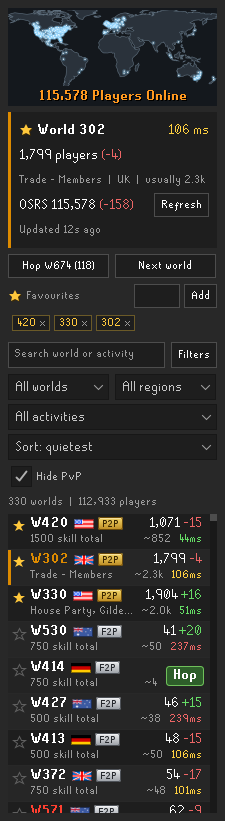
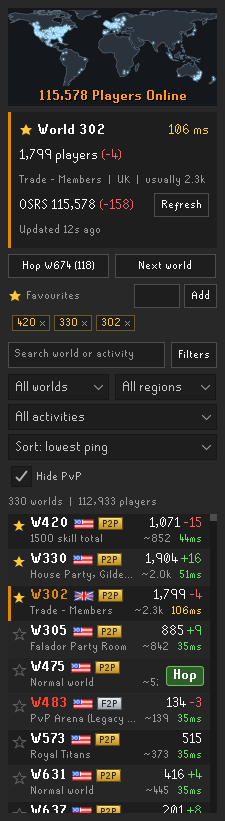
Ship your settings as the defaults; remember sidebar filters; overview image
- New installs start with: Medium size, 60% background, Find lowest ping,
  Theme favourites, Order quiet + low ping, Members/F2P split on, Regions
  world map, ping every 30s, overlay bottom-left; sidebar sorted by lowest
  ping with filters open and Hide PvP on.
- Sidebar sort, membership, region, theme, Hide PvP and filters-open are
  remembered between sessions.
- README opens with an overview image (overlay + sidebar).

diff --git a/src/main/java/com/playercount/PlayerCountConfig.java b/src/main/java/com/playercount/PlayerCountConfig.java
@@ -59,13 +59,13 @@ public interface PlayerCountConfig extends Config
 	@Units(Units.PERCENT)
 	default int frameOpacity()
 	{
-		return 90;
+		return 60;
 	}
 
 	@ConfigItem(keyName = SIZE_KEY, name = "Size", description = "Full, Medium (the game's small font) or Small (short labels on one line). Each is drawn at native size so text stays sharp. Alt-dragging the overlay's corner also switches size.", section = lookSection, position = 2)
 	default OverlaySize overlaySize()
 	{
-		return OverlaySize.FULL;
+		return OverlaySize.MEDIUM;
 	}
 
 	@ConfigItem(keyName = "layout", name = "Layout", description = "Vertical list, or a horizontal strip", section = lookSection, position = 3)
@@ -109,13 +109,13 @@ public interface PlayerCountConfig extends Config
 	@ConfigItem(keyName = "showMembersSplit", name = "Members / F2P split", description = "Total split into members and free-to-play worlds", section = linesSection, position = 4)
 	default boolean showMembersSplit()
 	{
-		return false;
+		return true;
 	}
 
 	@ConfigItem(keyName = "regionDisplay", name = "Regions", description = "Players per region: one line each, the top regions on one line, a share bar, or a world map of glowing players (hover a region for its count)", section = linesSection, position = 5)
 	default RegionDisplay regionDisplay()
 	{
-		return RegionDisplay.OFF;
+		return RegionDisplay.MAP;
 	}
 
 	@ConfigItem(keyName = "showNearby", name = "Nearby players", description = "Other players within render distance", section = linesSection, position = 7)
@@ -183,20 +183,58 @@ public interface PlayerCountConfig extends Config
 	@ConfigItem(keyName = "finderMode", name = "Find", description = "What the world finder looks for (Themed worlds also covers your favourites), or Off to disable it. It never suggests PvP, high-risk, Bounty Hunter, PvP Arena, Deadman, seasonal/Leagues, beta, tournament, Last Man Standing, speedrun or fresh-start worlds, or worlds that are nearly full (Themed worlds is the exception: it can suggest any world whose activity matches, with a red warning on risky ones).", section = finderSection, position = 0)
 	default FinderMode finderMode()
 	{
-		return FinderMode.QUIETEST;
+		return FinderMode.LOWEST_PING;
 	}
 
 
 	@ConfigItem(keyName = "theme", name = "Theme", description = "For Find: Themed worlds. Your favourites, a skill-total level, or an activity; the finder rotates through every matching world (Next world cycles them). Risky worlds are warned in red or orange.", section = finderSection, position = 1)
 	default WorldTheme theme()
 	{
-		return WorldTheme.WINTERTODT;
+		return WorldTheme.FAVOURITES;
 	}
 
 	@ConfigItem(keyName = FAVORITES_KEY, name = "Favourite worlds", description = "Comma-separated world numbers, e.g. 302, 330, 420, for Theme: Favourites (the finder filters for membership, region and max ping don't apply to favourites). The sidebar's stars and Favourites row edit this list too; deleting a world here removes it there. If these settings were open when you changed favourites in the sidebar, reopen them before editing this box.", section = finderSection, position = 2)
 	default String favoriteWorlds()
 	{
 		return "";
+	}
+
+	// ---- Sidebar filters (set from the sidebar itself, remembered between sessions) ----
+
+	@ConfigItem(keyName = "sidebarSort", name = "", description = "", hidden = true)
+	default String sidebarSort()
+	{
+		return "PING";
+	}
+
+	@ConfigItem(keyName = "sidebarMembership", name = "", description = "", hidden = true)
+	default int sidebarMembership()
+	{
+		return 0;
+	}
+
+	@ConfigItem(keyName = "sidebarRegion", name = "", description = "", hidden = true)
+	default String sidebarRegion()
+	{
+		return "";
+	}
+
+	@ConfigItem(keyName = "sidebarTheme", name = "", description = "", hidden = true)
+	default String sidebarTheme()
+	{
+		return "";
+	}
+
+	@ConfigItem(keyName = "sidebarHidePvp", name = "", description = "", hidden = true)
+	default boolean sidebarHidePvp()
+	{
+		return true;
+	}
+
+	@ConfigItem(keyName = "sidebarFiltersOpen", name = "", description = "", hidden = true)
+	default boolean sidebarFiltersOpen()
+	{
+		return true;
 	}
 
 	@ConfigItem(keyName = STARRED_KEY, name = "", description = "", hidden = true)
@@ -208,7 +246,7 @@ public interface PlayerCountConfig extends Config
 	@ConfigItem(keyName = "themedOrder", name = "Order", description = "For Find: Themed worlds (including Favourites), which world comes first and the order Next world rotates through them.", section = finderSection, position = 3)
 	default ThemedOrder themedOrder()
 	{
-		return ThemedOrder.BUSIEST;
+		return ThemedOrder.QUIET_AND_FAST;
 	}
 
 	@ConfigItem(keyName = "warnRisky", name = "Warn on risky worlds", description = "Themed worlds can include risky worlds. PvP-themed worlds (PvP, Deadman, High Risk, Bounty Hunter, Wilderness PK, LMS, PvP Arena) pulse red; separate-account worlds (Leagues, beta, speedrun, fresh start) are orange with an orange underline. Chat warns as you hop.", section = finderSection, position = 4)
@@ -374,7 +412,7 @@ public interface PlayerCountConfig extends Config
 	@Units(Units.SECONDS)
 	default int pingInterval()
 	{
-		return 3;
+		return 30;
 	}
 
 	@ConfigItem(keyName = REFRESH_KEY, name = "Refresh every", description = "How often to download Jagex's live world list", section = extrasSection, position = 3)

diff --git a/src/main/java/com/playercount/WorldListPanel.java b/src/main/java/com/playercount/WorldListPanel.java
@@ -77,6 +77,22 @@ class WorldListPanel extends PluginPanel
 		void setFavorite(int world, boolean on);
 
 		void refresh();
+
+		/** Remember a sidebar filter (key, value) between sessions. */
+		void saveSetting(String key, String value);
+	}
+
+	/** Sidebar filters as last saved. */
+	@Value
+	@Builder
+	static class Filters
+	{
+		String sort;
+		int membership;
+		String region;
+		String theme;
+		boolean hidePvp;
+		boolean open;
 	}
 
 	@Value
@@ -189,6 +205,11 @@ class WorldListPanel extends PluginPanel
 
 	WorldListPanel(Actions actions)
 	{
+		this(actions, Filters.builder().sort("PING").membership(0).region("").theme("").hidePvp(true).open(true).build());
+	}
+
+	WorldListPanel(Actions actions, Filters saved)
+	{
 		super(false);
 		this.actions = actions;
 		setLayout(new BorderLayout(0, 6));
@@ -288,6 +309,7 @@ class WorldListPanel extends PluginPanel
 		scroll.setBorder(BorderFactory.createEmptyBorder());
 		scroll.getVerticalScrollBar().setUnitIncrement(ROW_HEIGHT / 2);
 		add(scroll, BorderLayout.CENTER);
+		applySaved(saved);
 	}
 
 	// ---- Layout pieces ----
@@ -585,6 +607,7 @@ class WorldListPanel extends PluginPanel
 		{
 			filtersPanel.setVisible(!filtersPanel.isVisible());
 			revalidate();
+			actions.saveSetting("sidebarFiltersOpen", String.valueOf(filtersPanel.isVisible()));
 		});
 		JPanel searchRow = new JPanel(new BorderLayout(6, 0));
 		searchRow.setOpaque(false);
@@ -649,12 +672,66 @@ class WorldListPanel extends PluginPanel
 				rebuild();
 			}
 		});
-		membership.addActionListener(e -> rebuild());
-		region.addActionListener(e -> rebuild());
-		sort.addActionListener(e -> rebuild());
-		theme.addActionListener(e -> rebuild());
-		hideSpecial.addActionListener(e -> rebuild());
+		membership.addActionListener(e ->
+		{
+			rebuild();
+			actions.saveSetting("sidebarMembership", String.valueOf(membership.getSelectedIndex()));
+		});
+		region.addActionListener(e ->
+		{
+			rebuild();
+			actions.saveSetting("sidebarRegion", region.getSelectedIndex() <= 0 ? "" : String.valueOf(region.getSelectedItem()));
+		});
+		sort.addActionListener(e ->
+		{
+			rebuild();
+			actions.saveSetting("sidebarSort", ((Sort) sort.getSelectedItem()).name());
+		});
+		theme.addActionListener(e ->
+		{
+			rebuild();
+			Object t = theme.getSelectedItem();
+			actions.saveSetting("sidebarTheme", t instanceof WorldTheme ? ((WorldTheme) t).name() : "");
+		});
+		hideSpecial.addActionListener(e ->
+		{
+			rebuild();
+			actions.saveSetting("sidebarHidePvp", String.valueOf(hideSpecial.isSelected()));
+		});
 		return p;
+	}
+
+	/** Puts the filters back the way they were last session. */
+	private void applySaved(Filters saved)
+	{
+		for (Sort o : Sort.values())
+		{
+			if (o.name().equals(saved.getSort()))
+			{
+				sort.setSelectedItem(o);
+			}
+		}
+		if (saved.getMembership() >= 0 && saved.getMembership() < membership.getItemCount())
+		{
+			membership.setSelectedIndex(saved.getMembership());
+		}
+		for (int i = 1; i < region.getItemCount(); i++)
+		{
+			if (String.valueOf(region.getItemAt(i)).equals(saved.getRegion()))
+			{
+				region.setSelectedIndex(i);
+			}
+		}
+		for (int i = 1; i < theme.getItemCount(); i++)
+		{
+			Object t = theme.getItemAt(i);
+			if (t instanceof WorldTheme && ((WorldTheme) t).name().equals(saved.getTheme()))
+			{
+				theme.setSelectedIndex(i);
+			}
+		}
+		hideSpecial.setSelected(saved.isHidePvp());
+		filtersPanel.setVisible(saved.isOpen());
 	}
 
 	/** Opens or closes the filter panel (also used for screenshots). */

diff --git a/src/test/java/com/playercount/Showcase.java b/src/test/java/com/playercount/Showcase.java
@@ -169,6 +169,31 @@ public class Showcase
 		ImageIO.write(sidebar(state), "png", new File(out, "sidebar.png"));
 		ImageIO.write(sidebar(state, true), "png", new File(out, "sidebar-filters.png"));
 
+		// Overview: the overlay (as a new install starts: steel, map) beside the sidebar
+		List<OverlayLayout.Item> hero = new ArrayList<>();
+		hero.add(OverlayLayout.Item.line("World 302").add("1,799", Color.WHITE).add(" (-12)", PlayerCountOverlay.DOWN).star(true));
+		hero.add(OverlayLayout.Item.line("Total").add("115,578", Color.WHITE).add(" (+158)", PlayerCountOverlay.UP));
+		hero.add(OverlayLayout.Item.line("P2P / F2P").add("107.8k / 7.8k", Color.WHITE));
+		WorldMap heroMap = new WorldMap();
+		hero.add(OverlayLayout.Item.custom("regions-map", () -> new WorldMapComponent(heroMap, WorldMap.stats(worlds), null, WorldStats.totals(worlds).getTotal(), 0), 200));
+		hero.add(OverlayLayout.Item.line("Ping").add("34 ms", PlayerCountOverlay.UP));
+		hero.add(OverlayLayout.Item.line("Nearby").add("14", Color.WHITE));
+		hero.add(OverlayLayout.Item.line("Lowest ping").add("W420 (1,071) US", PlayerCountOverlay.UP).add(" 22ms", PlayerCountOverlay.UP));
+		BufferedImage heroOverlay = overlay(painter, PlayerCountConfig.FrameStyle.STEEL, PlayerCountConfig.Layout.VERTICAL, hero);
+		BufferedImage side = ImageIO.read(new File(out, "sidebar.png"));
+		int pad = 16;
+		int heroW = pad + heroOverlay.getWidth() * 2 + pad + side.getWidth() * 2 + pad;
+		int heroH = pad + Math.max(heroOverlay.getHeight() * 2, side.getHeight() * 2) + pad;
+		BufferedImage heroImg = new BufferedImage(heroW, heroH, BufferedImage.TYPE_INT_ARGB);
+		Graphics2D hg = heroImg.createGraphics();
+		hg.setRenderingHint(RenderingHints.KEY_INTERPOLATION, RenderingHints.VALUE_INTERPOLATION_NEAREST_NEIGHBOR);
+		hg.setColor(new Color(74, 90, 53));
+		hg.fillRect(0, 0, heroW, heroH);
+		hg.drawImage(heroOverlay, pad, pad, heroOverlay.getWidth() * 2, heroOverlay.getHeight() * 2, null);
+		hg.drawImage(side, pad * 2 + heroOverlay.getWidth() * 2, pad, side.getWidth() * 2, side.getHeight() * 2, null);
+		hg.dispose();
+		ImageIO.write(heroImg, "png", new File(out, "overview.png"));
+
 		ImageIO.write(Icons.pluginIcon(48), "png", new File(out, "icon.png"));
 		System.out.println("Wrote screenshots to " + out.getAbsolutePath());
 		System.exit(0);
@@ -334,6 +359,11 @@ public class Showcase
 
 				@Override
 				public void refresh()
+				{
+				}
+
+				@Override
+				public void saveSetting(String key, String value)
 				{
 				}
 			});

diff --git a/src/main/java/com/playercount/PlayerCountPlugin.java b/src/main/java/com/playercount/PlayerCountPlugin.java
@@ -302,7 +302,20 @@ public class PlayerCountPlugin extends Plugin
 			{
 				refreshNow();
 			}
-		});
+
+			@Override
+			public void saveSetting(String key, String value)
+			{
+				configManager.setConfiguration(PlayerCountConfig.GROUP, key, value);
+			}
+		}, WorldListPanel.Filters.builder()
+			.sort(config.sidebarSort())
+			.membership(config.sidebarMembership())
+			.region(config.sidebarRegion())
+			.theme(config.sidebarTheme())
+			.hidePvp(config.sidebarHidePvp())
+			.open(config.sidebarFiltersOpen())
+			.build());
 		navButton = NavigationButton.builder()
 			.tooltip("Player Count")
 			.icon(Icons.globe(16))

diff --git a/src/main/java/com/playercount/PlayerCountOverlay.java b/src/main/java/com/playercount/PlayerCountOverlay.java
@@ -87,7 +87,7 @@ class PlayerCountOverlay extends Overlay
 		this.spriteManager = spriteManager;
 		this.configManager = configManager;
 		this.overlayManager = overlayManager;
-		setPosition(OverlayPosition.TOP_LEFT);
+		setPosition(OverlayPosition.BOTTOM_LEFT);
 		setMovable(true);
 		setResizable(true);
 		addMenuEntry(MenuAction.RUNELITE_OVERLAY, "Hop to", "suggested world", e -> plugin.hopToSuggestion());

diff --git a/README.md b/README.md
@@ -6,9 +6,11 @@ A movable overlay for Old School RuneScape showing how many people are on your w
 whole game, plus a world finder, a live world list in the sidebar, ping, alerts and population
 history.
 
-![Overlay in the OSRS steel frame](docs/overlay-steel.png)
+![Player Count overlay and sidebar](docs/overview.png)
 
 ## Overlay
+
+![Overlay in the OSRS steel frame](docs/overlay-steel.png)
 
 - **Your world's player count** and the **OSRS total**, each with its change over the last minute
   (green for gains, red for losses).
